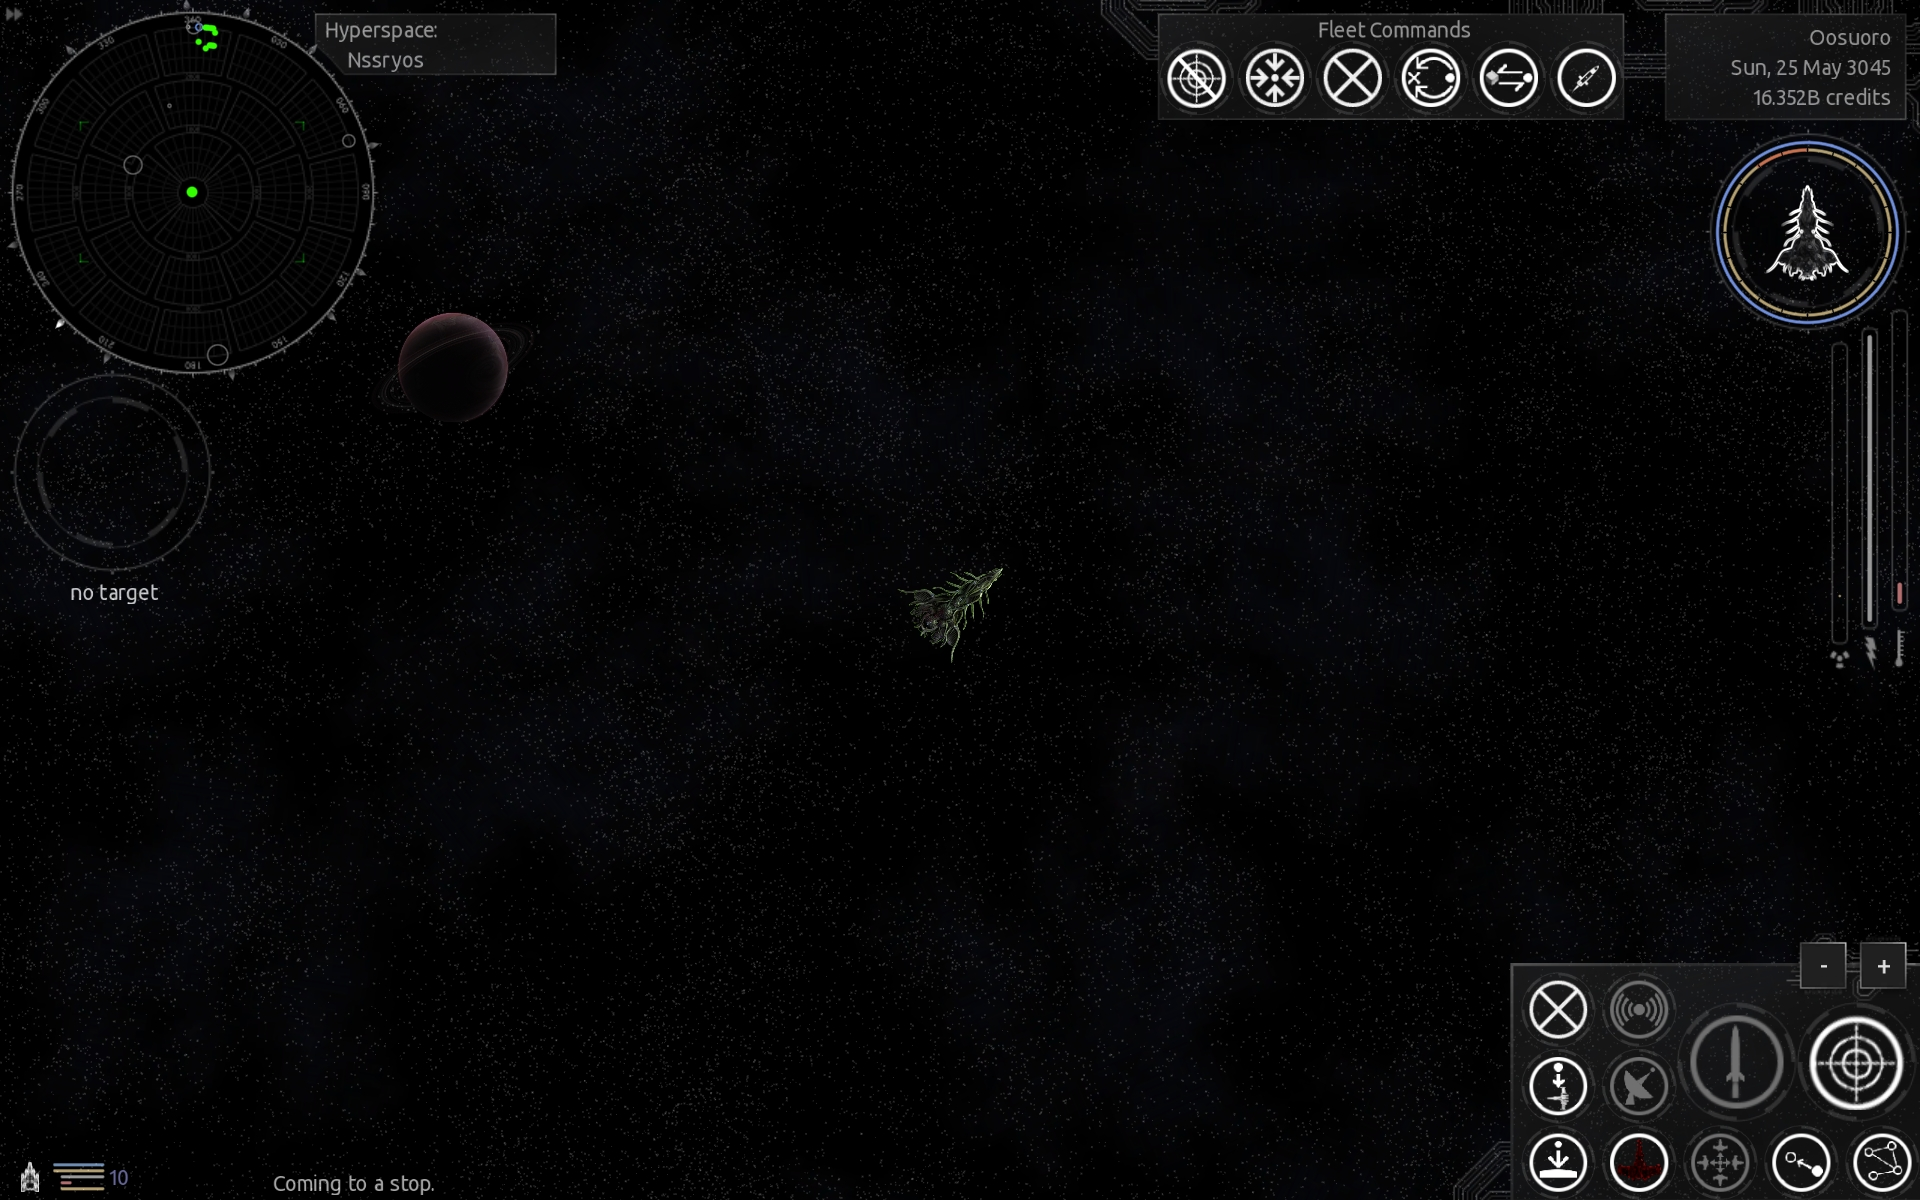
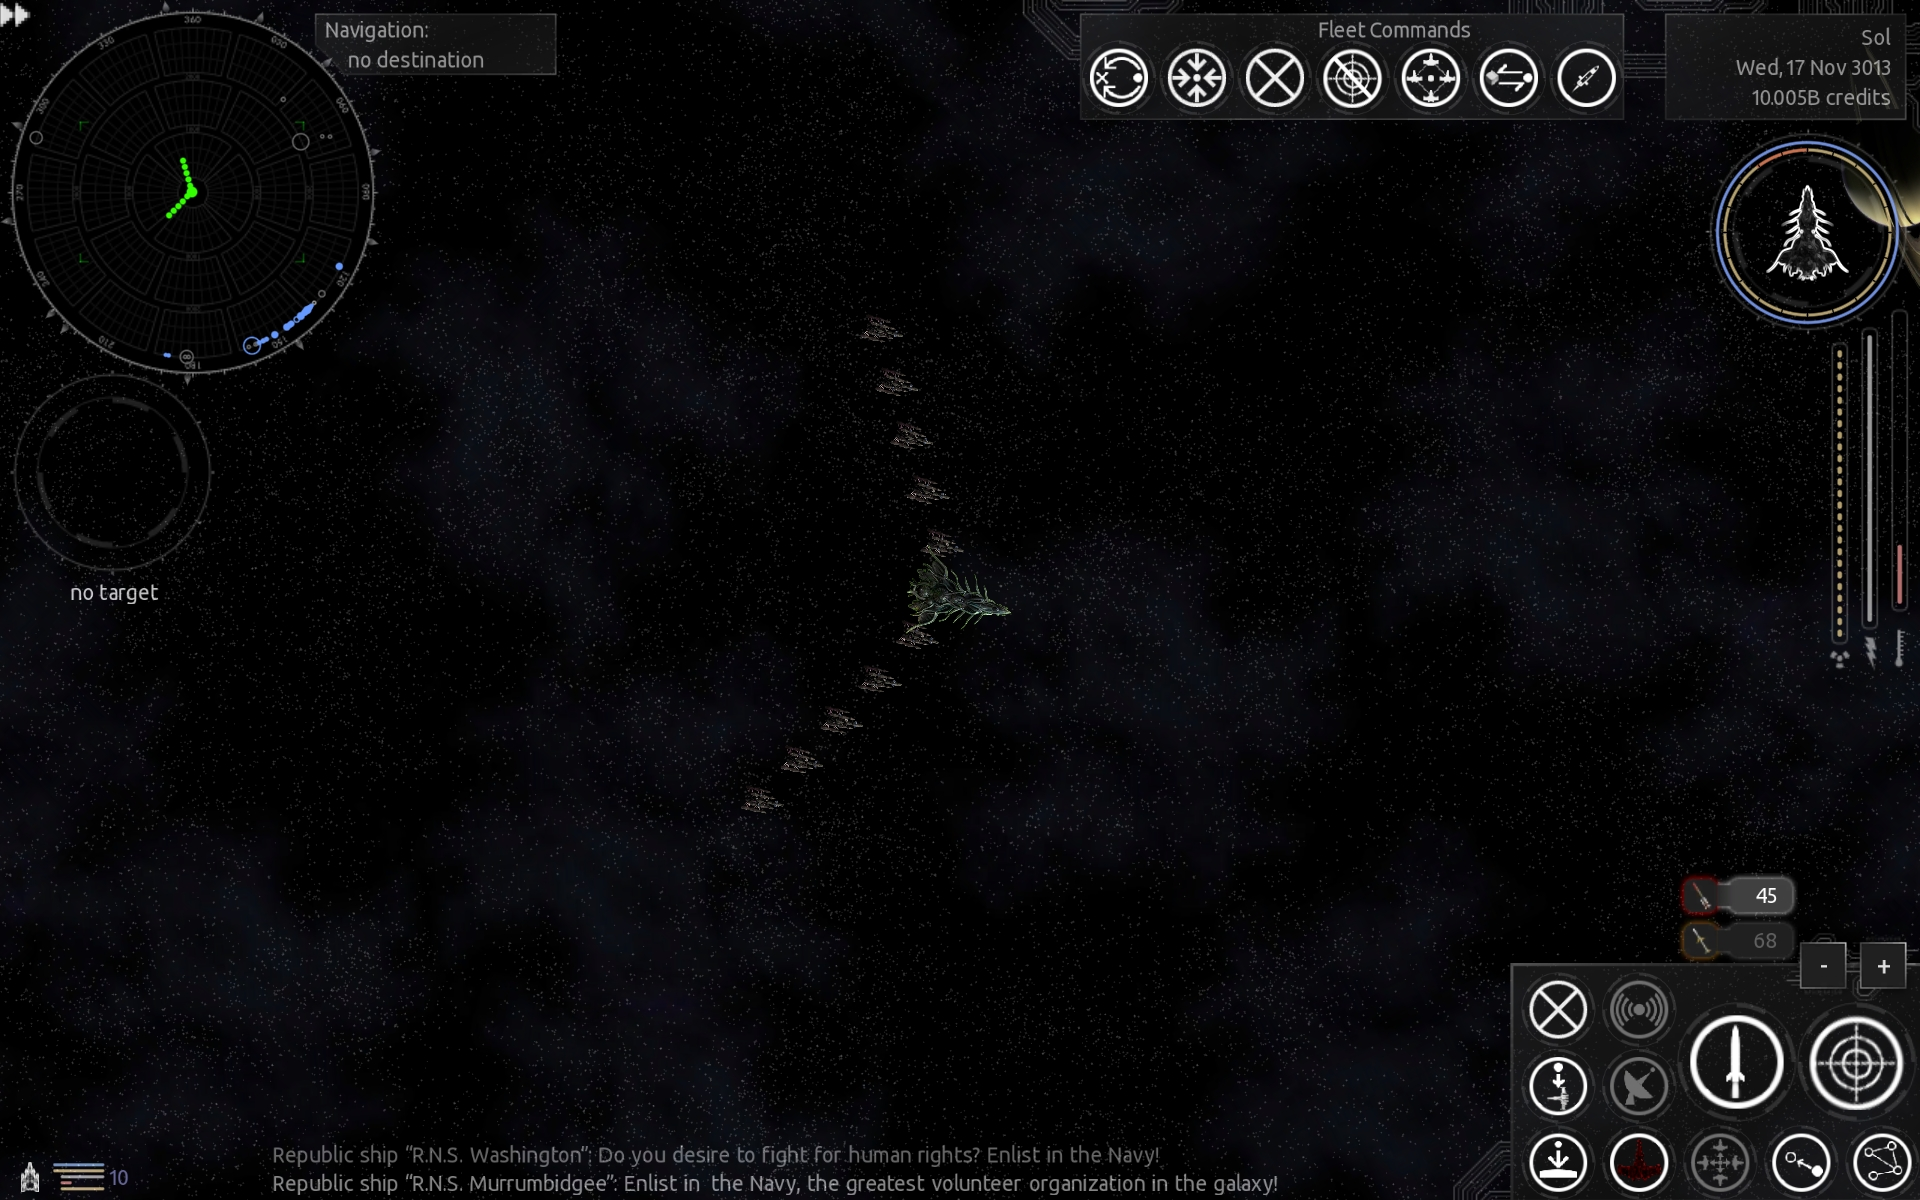
update additional.command.buttons.radial

diff --git a/myplugins/additional.command.buttons.radial/README.md b/myplugins/additional.command.buttons.radial/README.md
@@ -18,6 +18,9 @@ This plugin<br>
 <br>
 Changelog:<br>
 <br>
+2024-10-11<br>
+added fleet formations button<br>
+<br>
 2024-10-07<br>
 added fleet hold fire button<br>
 <br>
